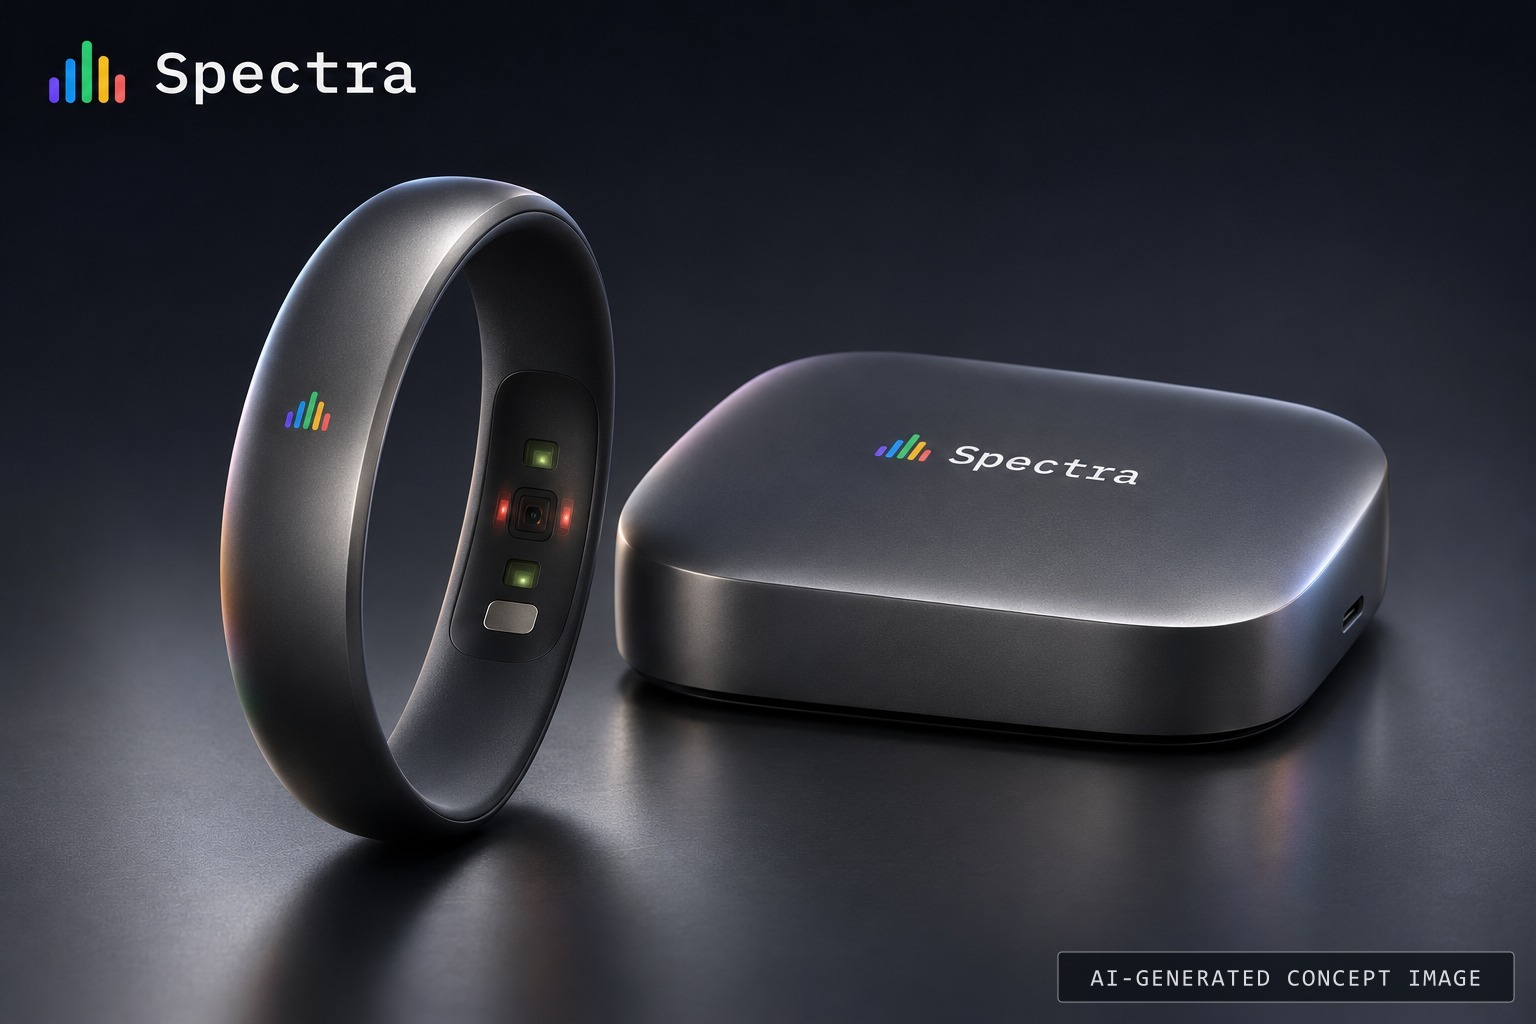
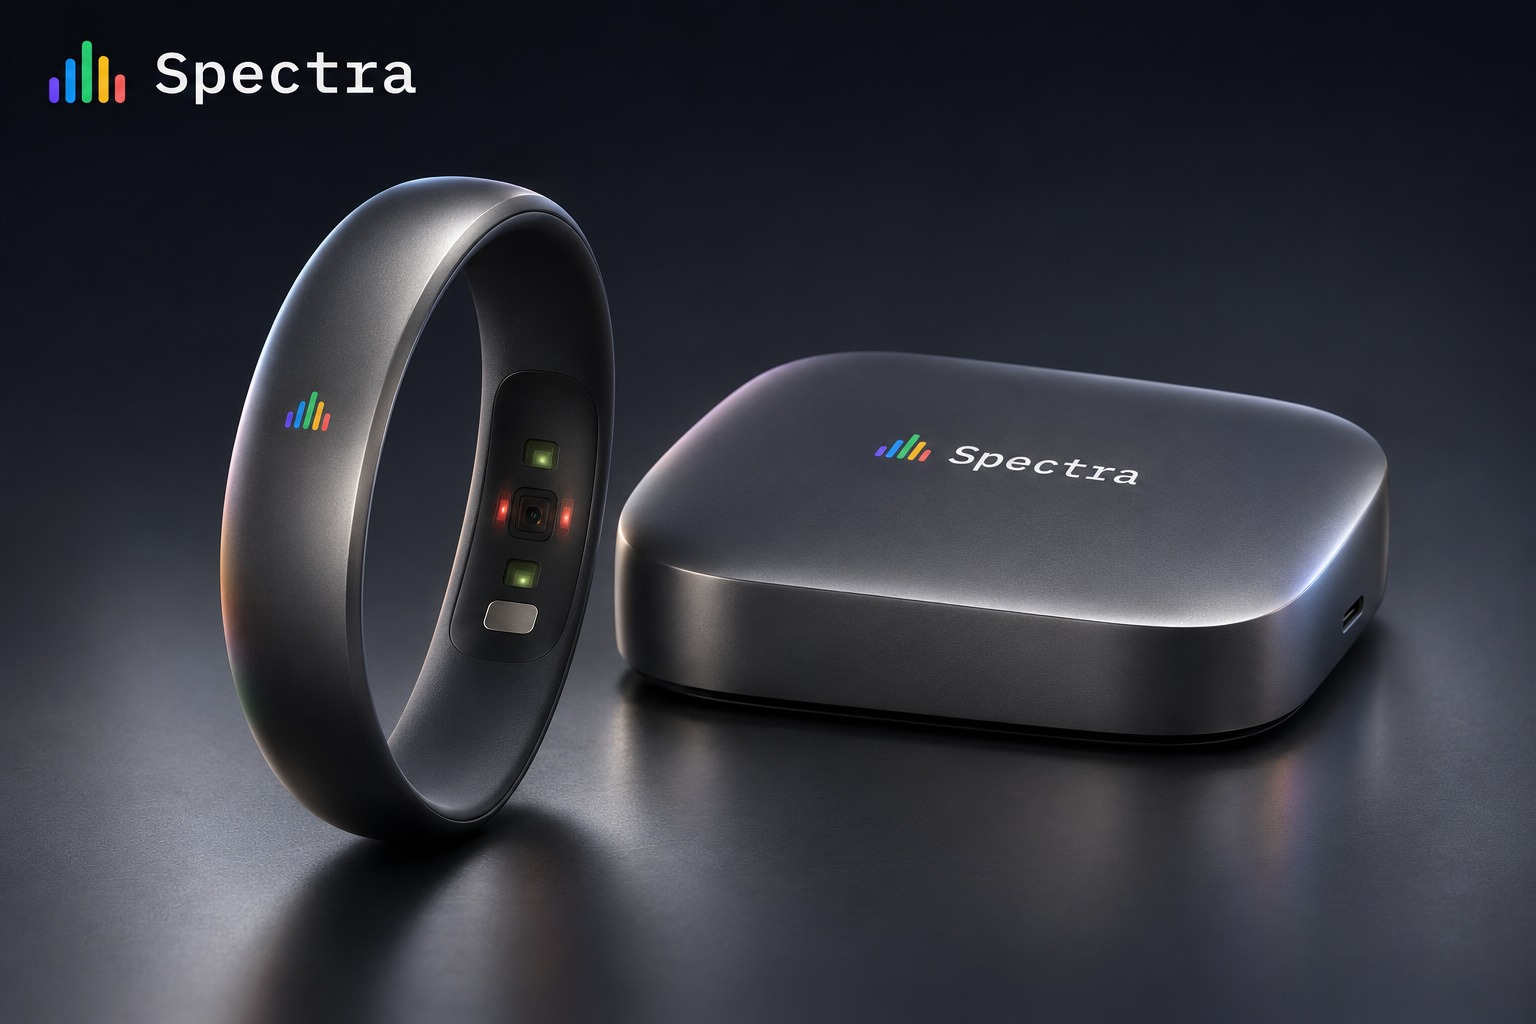
refactor(site): remove the image marks and the limits and unused-sources lists
The images in src/assets are back to their unmarked versions and the two render captions are gone. The declaration of AI use stays in the README.

Changed region(s): [[0.6875, 0.9062, 1.0, 1.0]]

diff --git a/src/styles/ops.css b/src/styles/ops.css
@@ -687,20 +687,6 @@
 
 /* ---------- Renders, footer and the reward for the curious ---------- */
 
-.render-note {
-  display: block;
-  font-family: var(--font-mono);
-  font-size: 0.625rem;
-  letter-spacing: 0.08em;
-  text-transform: uppercase;
-  color: var(--text-muted);
-}
-
-.hero-stage .render-note {
-  padding-inline: var(--gutter);
-  text-align: right;
-}
-
 .badge-spectrum {
   padding: 2px var(--space-2);
   border: 1px solid var(--band-3);

diff --git a/README.md b/README.md
@@ -60,7 +60,7 @@ Missing readings are never replaced with zero. A discarded window is shown as di
 
 ## Use of artificial intelligence
 
-- **Images.** Every image in `src/assets` was generated or edited with an AI image tool from the team's design direction. Each file carries a visible "AI-generated concept image" mark. No NASA logo or mark appears in them.
+- **Images.** Every image in `src/assets` was generated or edited with an AI image tool from the team's design direction. No NASA logo or mark appears in them.
 - **Code and copy.** An AI coding assistant (Claude Code) wrote most of the code, tests and site copy under the team's direction and review.
 - **Data.** No dataset here is AI-generated. The physiological readings come from a deterministic simulator in `src/sim/generator.ts`; the open data snapshots are stored as downloaded, reduced in resolution.
 
